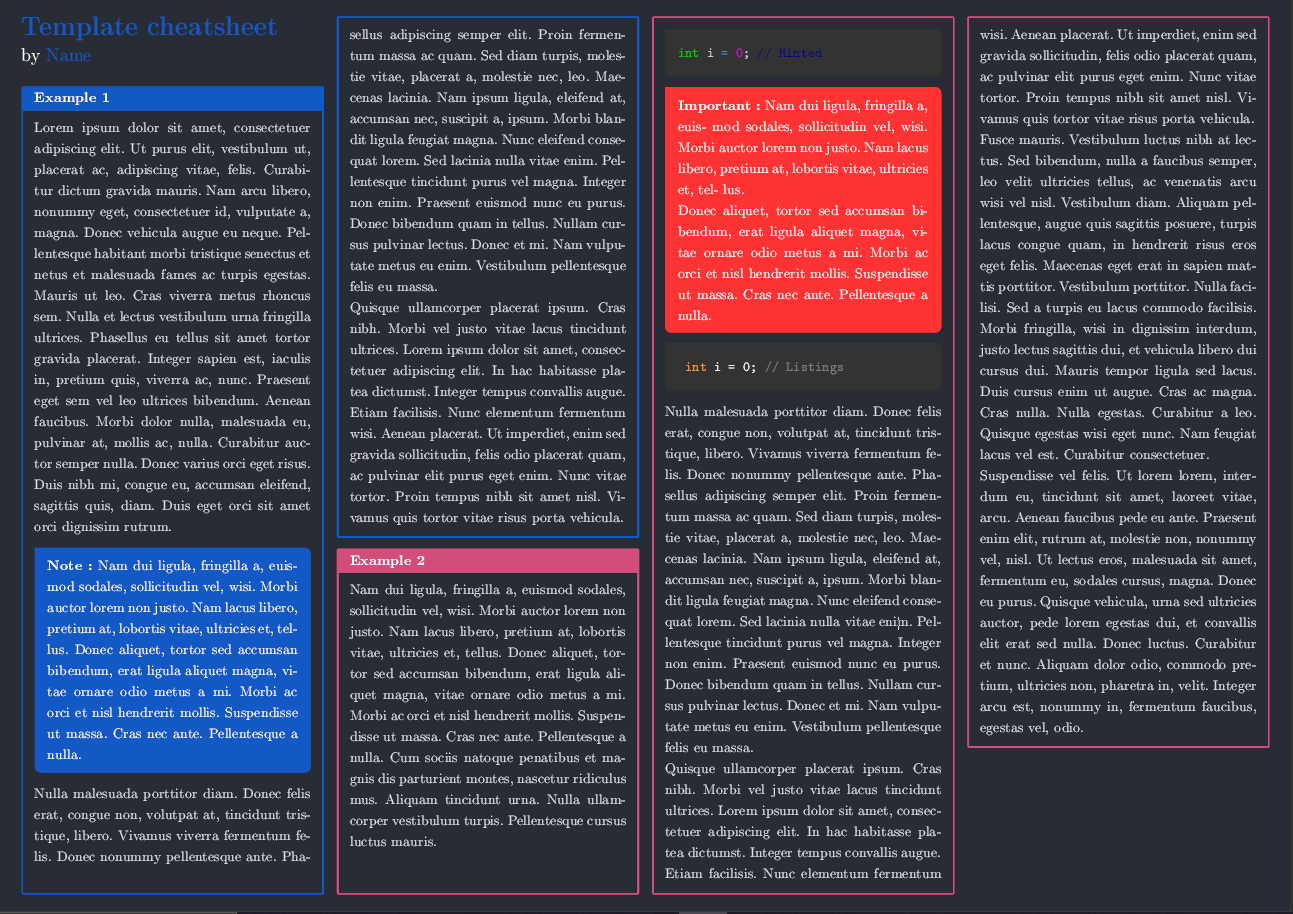
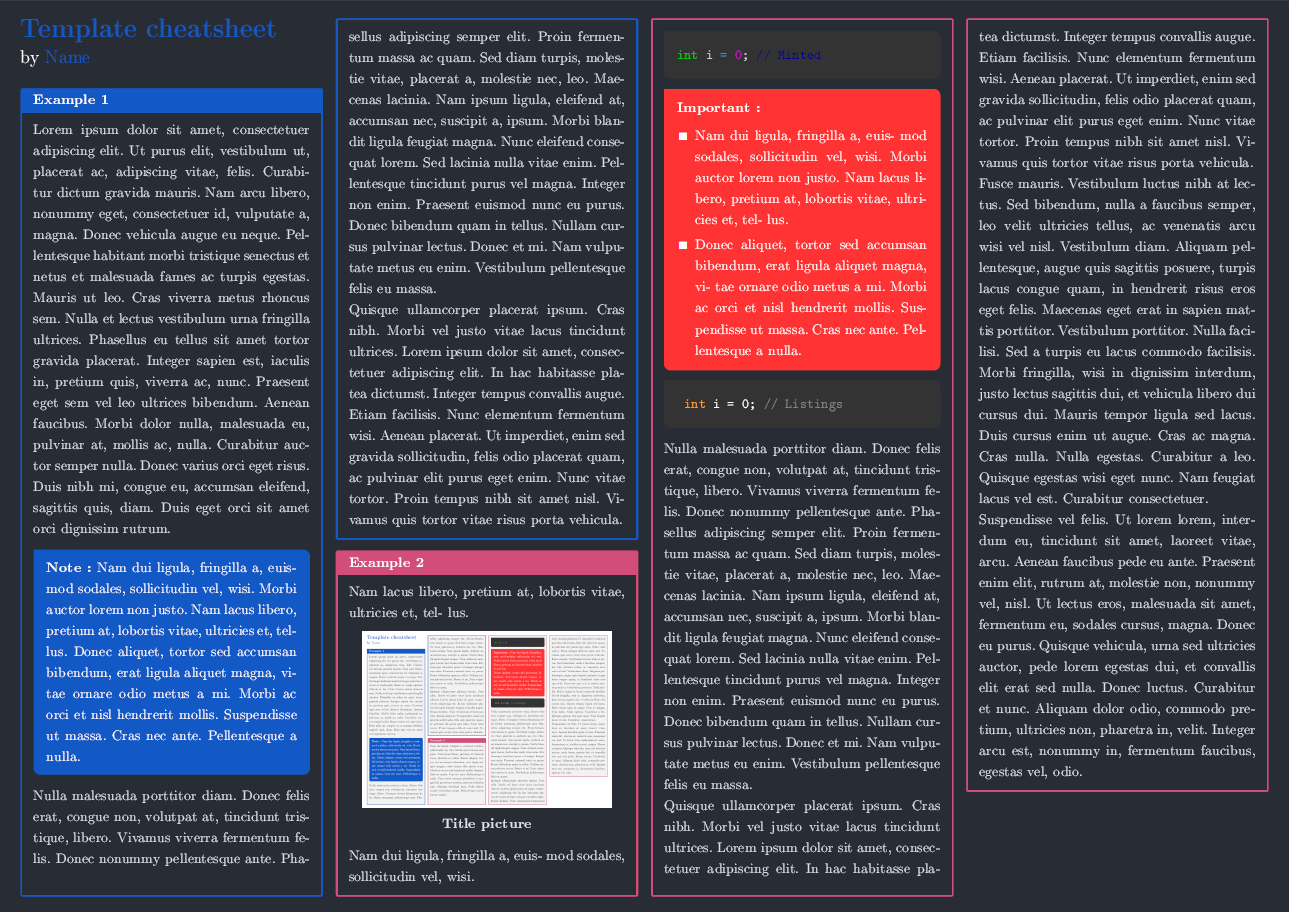
Updating the template and the README with the supports for image and list.

Changed region(s): [[0.0, 0.0, 0.993, 1.0]]

diff --git a/README.md b/README.md
@@ -106,7 +106,23 @@ To separate a Important block, you can call `\splitImportant`. This will break t
     ...
 \end{CodeListings}
 ```
+## Image and List
 
+### Image
+
+```
+\image{Path}{Title}
+```
+
+### List
+
+```
+\begin{List}{Color}
+    ...
+    \item
+    ...
+\end{List}
+```
 
 ## License
 
